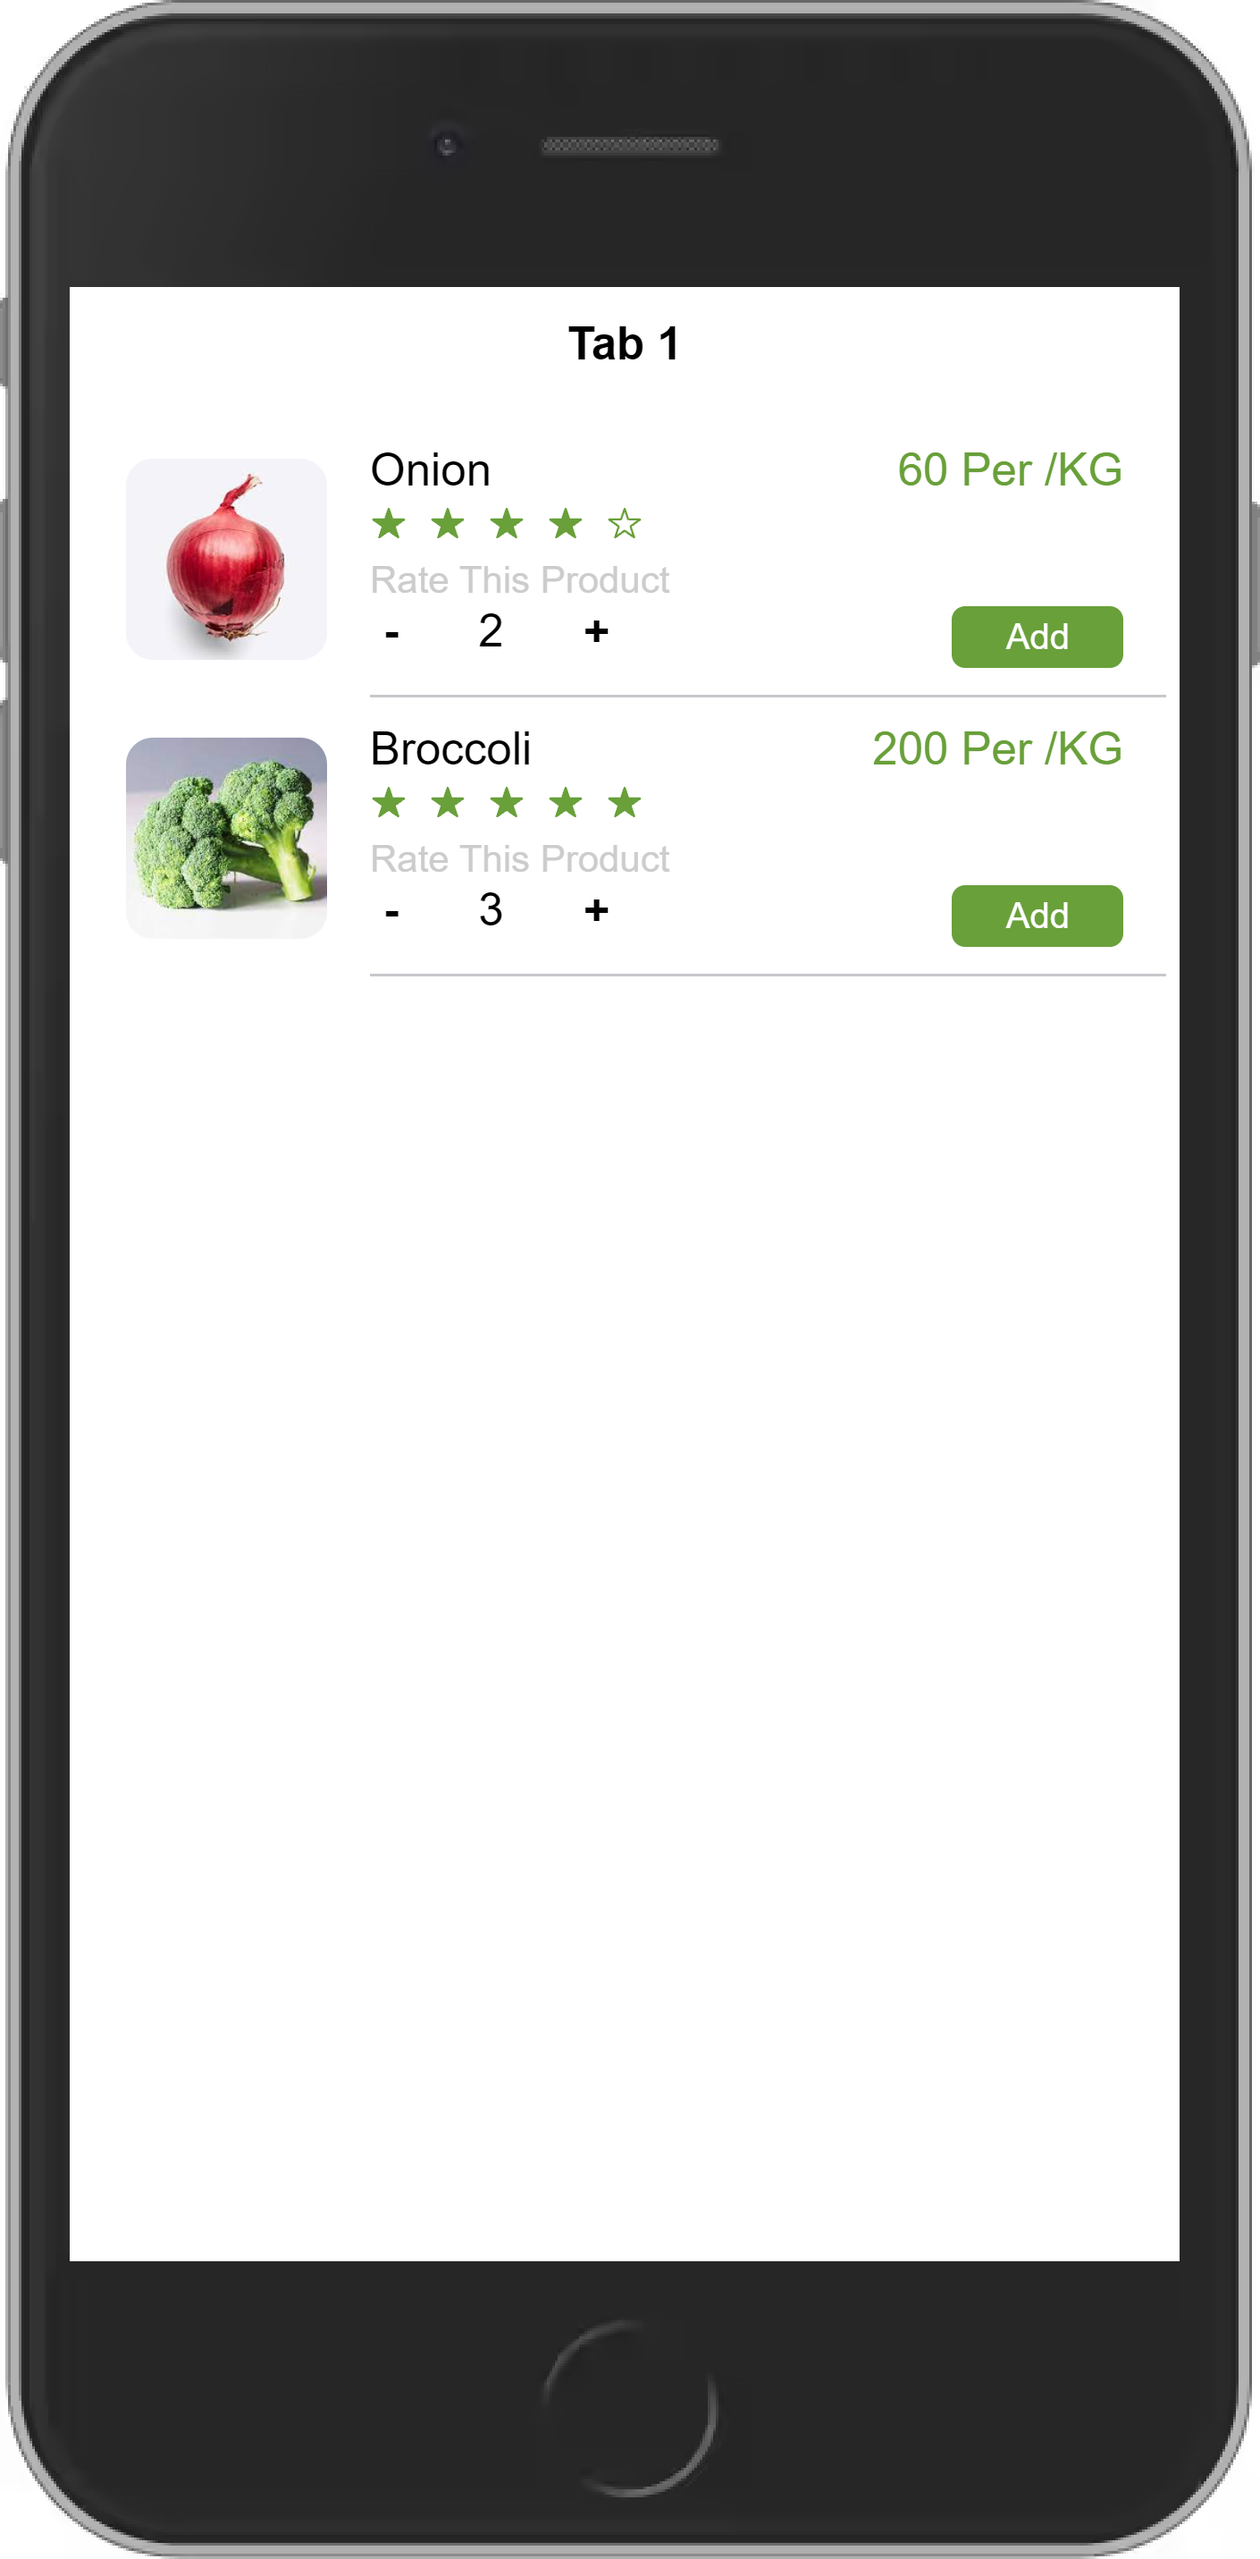
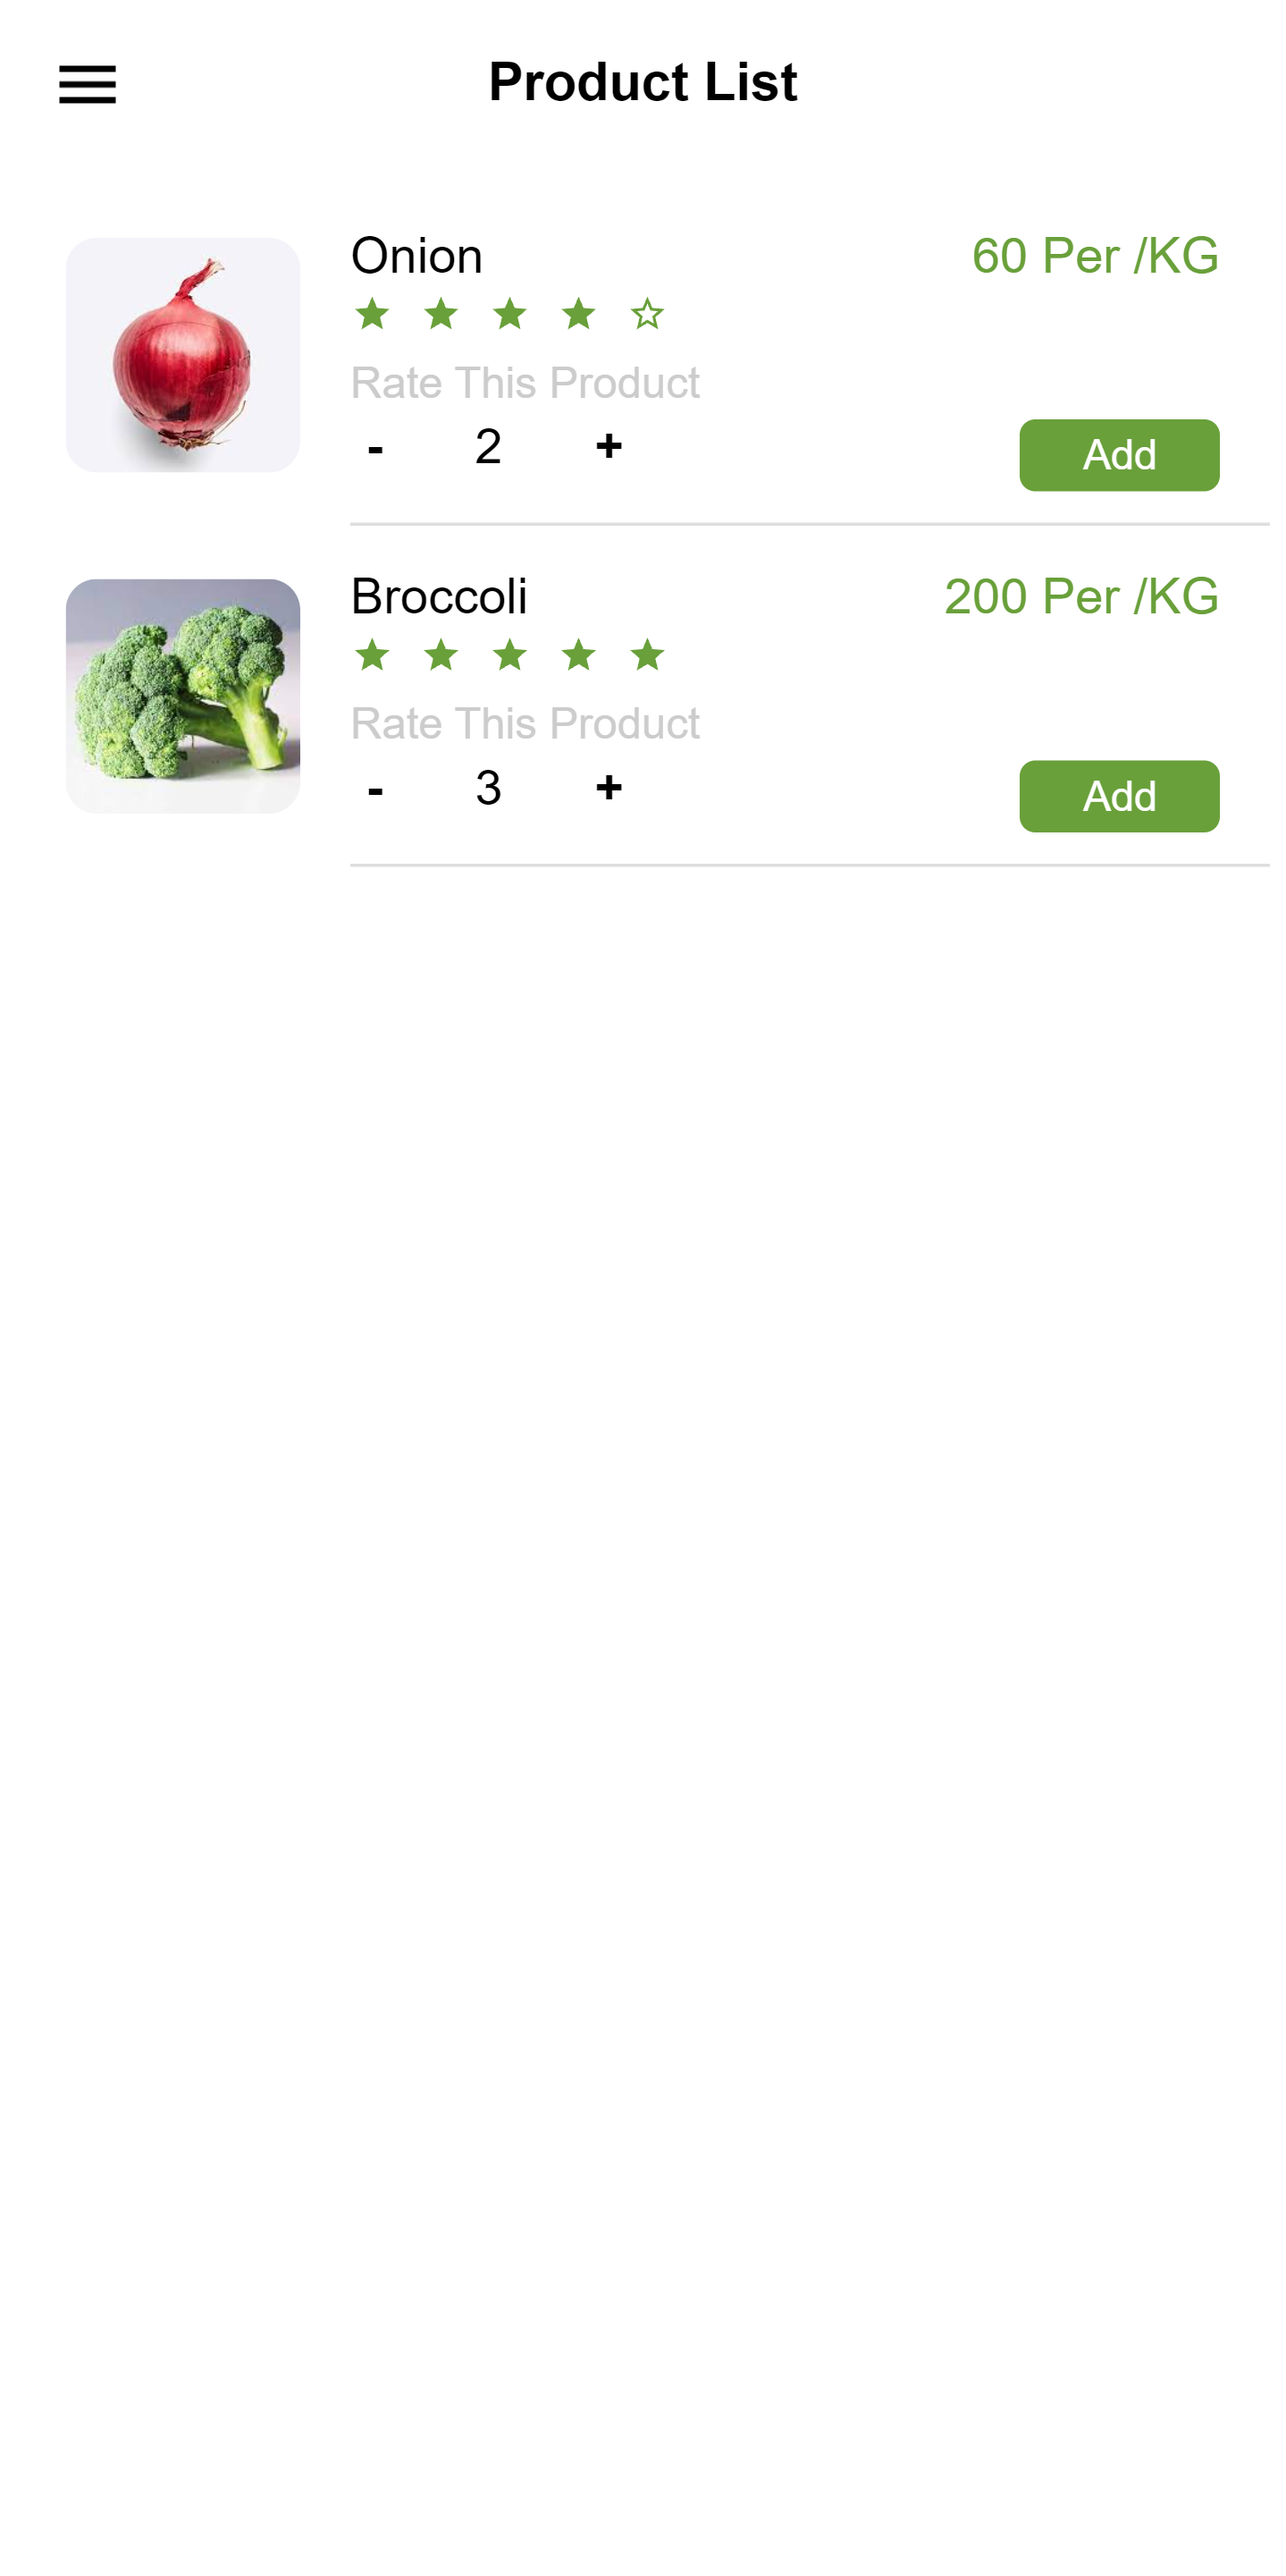
Update code

diff --git a/src/app/list/list.page.html b/src/app/list/list.page.html
@@ -1,7 +1,10 @@
 <ion-header [translucent]="true">
-  <ion-toolbar>
+  <ion-toolbar mode="ios">
+    <ion-buttons slot="start">
+      <ion-menu-button></ion-menu-button>
+    </ion-buttons>
     <ion-title>
-      Tab 1
+      Product List
     </ion-title>
   </ion-toolbar>
 </ion-header>

diff --git a/src/app/app.component.ts b/src/app/app.component.ts
@@ -13,7 +13,7 @@ export class AppComponent {
   public appPages = [
     {
       title: 'Home',
-      url: '/home/tab1',
+      url: '/home',
       icon: 'home'
     },
     {
